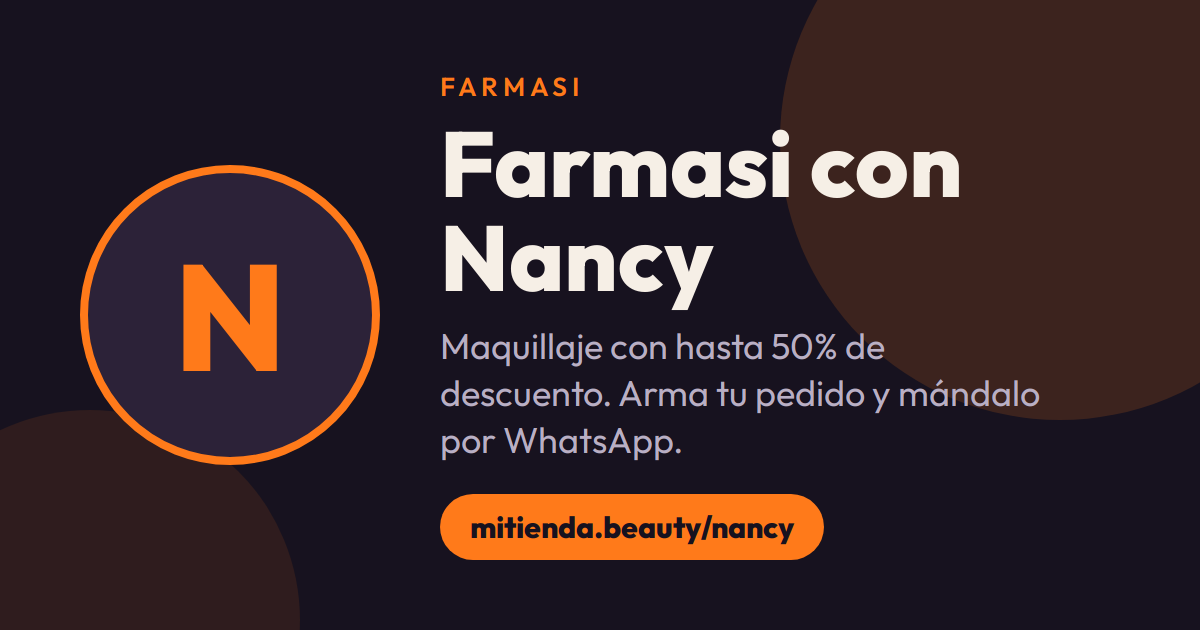
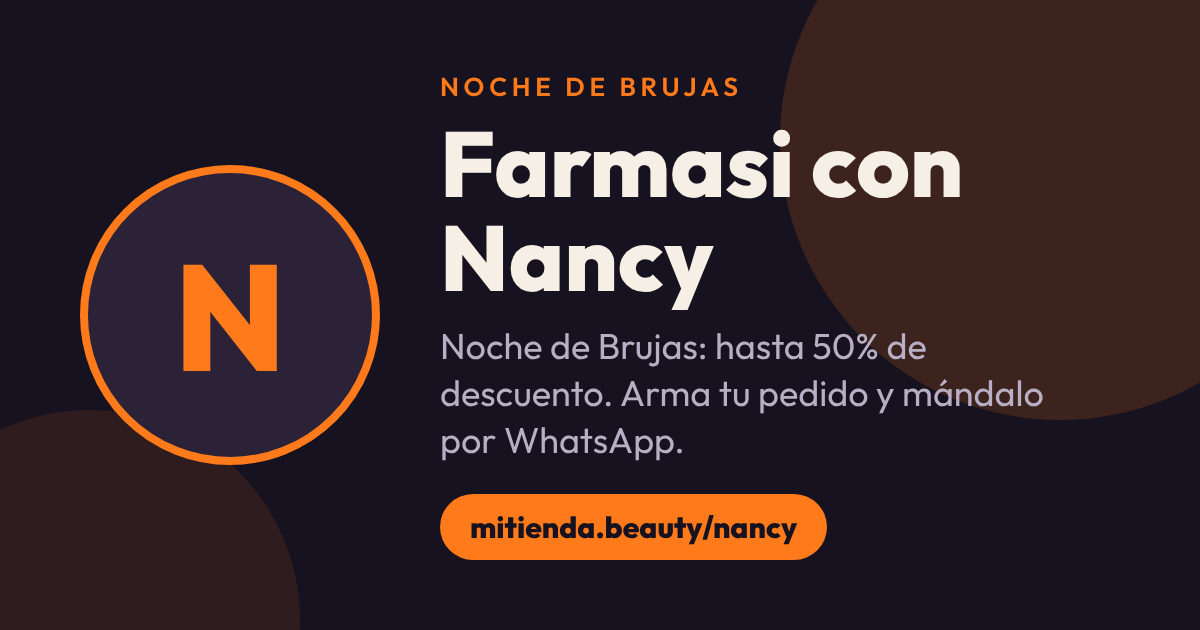
Vistas previas: título y descripción salen de la venta activa (se actualizan solos)
Claude-Session: https://claude.ai/code/session_01WesQxjD6cAK6tdYb2aBDD2

diff --git a/anaofelia/index.html b/anaofelia/index.html
@@ -10,15 +10,15 @@
 <title>Farmasi con Ana Ofelia</title>
 <meta name="description" content="Venta especial de maquillaje con Ana Ofelia. Elige tus productos y manda tu pedido por WhatsApp.">
 <meta property="og:title" content="Farmasi con Ana Ofelia">
-<meta property="og:description" content="Maquillaje con hasta 50% de descuento. Arma tu pedido y mándalo por WhatsApp.">
+<meta property="og:description" content="Noche de Brujas: hasta 50% de descuento. Arma tu pedido y mándalo por WhatsApp.">
 <meta property="og:type" content="website">
 <meta property="og:locale" content="es_MX">
 <meta property="og:url" content="https://mitienda.beauty/anaofelia/">
-<meta property="og:image" content="https://mitienda.beauty/og/anaofelia.png?v=0db46e0f">
+<meta property="og:image" content="https://mitienda.beauty/og/anaofelia.png?v=f62d6916">
 <meta property="og:image:width" content="1200">
 <meta property="og:image:height" content="630">
 <meta name="twitter:card" content="summary_large_image">
-<meta name="twitter:image" content="https://mitienda.beauty/og/anaofelia.png?v=0db46e0f">
+<meta name="twitter:image" content="https://mitienda.beauty/og/anaofelia.png?v=f62d6916">
 <link rel="preconnect" href="https://fonts.googleapis.com">
 <link rel="preconnect" href="https://fonts.gstatic.com" crossorigin>
 <link href="https://fonts.googleapis.com/css2?family=IBM+Plex+Mono:wght@400;500;700&family=Outfit:wght@300;400;500;600;700;800&display=swap" rel="stylesheet">

diff --git a/anagomez/index.html b/anagomez/index.html
@@ -10,15 +10,15 @@
 <title>Farmasi con Ana Gómez</title>
 <meta name="description" content="Venta especial de maquillaje con Ana Gómez. Elige tus productos y manda tu pedido por WhatsApp.">
 <meta property="og:title" content="Farmasi con Ana Gómez">
-<meta property="og:description" content="Maquillaje con hasta 50% de descuento. Arma tu pedido y mándalo por WhatsApp.">
+<meta property="og:description" content="Noche de Brujas: hasta 50% de descuento. Arma tu pedido y mándalo por WhatsApp.">
 <meta property="og:type" content="website">
 <meta property="og:locale" content="es_MX">
 <meta property="og:url" content="https://mitienda.beauty/anagomez/">
-<meta property="og:image" content="https://mitienda.beauty/og/anagomez.png?v=885e40aa">
+<meta property="og:image" content="https://mitienda.beauty/og/anagomez.png?v=ca89e49b">
 <meta property="og:image:width" content="1200">
 <meta property="og:image:height" content="630">
 <meta name="twitter:card" content="summary_large_image">
-<meta name="twitter:image" content="https://mitienda.beauty/og/anagomez.png?v=885e40aa">
+<meta name="twitter:image" content="https://mitienda.beauty/og/anagomez.png?v=ca89e49b">
 <link rel="preconnect" href="https://fonts.googleapis.com">
 <link rel="preconnect" href="https://fonts.gstatic.com" crossorigin>
 <link href="https://fonts.googleapis.com/css2?family=IBM+Plex+Mono:wght@400;500;700&family=Outfit:wght@300;400;500;600;700;800&display=swap" rel="stylesheet">

diff --git a/andrea/index.html b/andrea/index.html
@@ -10,15 +10,15 @@
 <title>Farmasi con Andrea</title>
 <meta name="description" content="Venta especial de maquillaje con Andrea. Elige tus productos y manda tu pedido por WhatsApp.">
 <meta property="og:title" content="Farmasi con Andrea">
-<meta property="og:description" content="Maquillaje con hasta 50% de descuento. Arma tu pedido y mándalo por WhatsApp.">
+<meta property="og:description" content="Noche de Brujas: hasta 50% de descuento. Arma tu pedido y mándalo por WhatsApp.">
 <meta property="og:type" content="website">
 <meta property="og:locale" content="es_MX">
 <meta property="og:url" content="https://mitienda.beauty/andrea/">
-<meta property="og:image" content="https://mitienda.beauty/og/andrea.png?v=e01e39df">
+<meta property="og:image" content="https://mitienda.beauty/og/andrea.png?v=c41a8d59">
 <meta property="og:image:width" content="1200">
 <meta property="og:image:height" content="630">
 <meta name="twitter:card" content="summary_large_image">
-<meta name="twitter:image" content="https://mitienda.beauty/og/andrea.png?v=e01e39df">
+<meta name="twitter:image" content="https://mitienda.beauty/og/andrea.png?v=c41a8d59">
 <link rel="preconnect" href="https://fonts.googleapis.com">
 <link rel="preconnect" href="https://fonts.gstatic.com" crossorigin>
 <link href="https://fonts.googleapis.com/css2?family=IBM+Plex+Mono:wght@400;500;700&family=Outfit:wght@300;400;500;600;700;800&display=swap" rel="stylesheet">

diff --git a/silvia/index.html b/silvia/index.html
@@ -10,15 +10,15 @@
 <title>Farmasi con Silvia</title>
 <meta name="description" content="Venta especial de maquillaje con Silvia. Elige tus productos y manda tu pedido por WhatsApp.">
 <meta property="og:title" content="Farmasi con Silvia">
-<meta property="og:description" content="Maquillaje con hasta 50% de descuento. Arma tu pedido y mándalo por WhatsApp.">
+<meta property="og:description" content="Noche de Brujas: hasta 50% de descuento. Arma tu pedido y mándalo por WhatsApp.">
 <meta property="og:type" content="website">
 <meta property="og:locale" content="es_MX">
 <meta property="og:url" content="https://mitienda.beauty/silvia/">
-<meta property="og:image" content="https://mitienda.beauty/og/silvia.png?v=891a5dd5">
+<meta property="og:image" content="https://mitienda.beauty/og/silvia.png?v=5c2524eb">
 <meta property="og:image:width" content="1200">
 <meta property="og:image:height" content="630">
 <meta name="twitter:card" content="summary_large_image">
-<meta name="twitter:image" content="https://mitienda.beauty/og/silvia.png?v=891a5dd5">
+<meta name="twitter:image" content="https://mitienda.beauty/og/silvia.png?v=5c2524eb">
 <link rel="preconnect" href="https://fonts.googleapis.com">
 <link rel="preconnect" href="https://fonts.gstatic.com" crossorigin>
 <link href="https://fonts.googleapis.com/css2?family=IBM+Plex+Mono:wght@400;500;700&family=Outfit:wght@300;400;500;600;700;800&display=swap" rel="stylesheet">

diff --git a/yazmin/index.html b/yazmin/index.html
@@ -10,15 +10,15 @@
 <title>Farmasi con Yazmin</title>
 <meta name="description" content="Venta especial de maquillaje con Yazmin. Elige tus productos y manda tu pedido por WhatsApp.">
 <meta property="og:title" content="Farmasi con Yazmin">
-<meta property="og:description" content="Maquillaje con hasta 50% de descuento. Arma tu pedido y mándalo por WhatsApp.">
+<meta property="og:description" content="Noche de Brujas: hasta 50% de descuento. Arma tu pedido y mándalo por WhatsApp.">
 <meta property="og:type" content="website">
 <meta property="og:locale" content="es_MX">
 <meta property="og:url" content="https://mitienda.beauty/yazmin/">
-<meta property="og:image" content="https://mitienda.beauty/og/yazmin.png?v=386fdfa8">
+<meta property="og:image" content="https://mitienda.beauty/og/yazmin.png?v=2248d71a">
 <meta property="og:image:width" content="1200">
 <meta property="og:image:height" content="630">
 <meta name="twitter:card" content="summary_large_image">
-<meta name="twitter:image" content="https://mitienda.beauty/og/yazmin.png?v=386fdfa8">
+<meta name="twitter:image" content="https://mitienda.beauty/og/yazmin.png?v=2248d71a">
 <link rel="preconnect" href="https://fonts.googleapis.com">
 <link rel="preconnect" href="https://fonts.gstatic.com" crossorigin>
 <link href="https://fonts.googleapis.com/css2?family=IBM+Plex+Mono:wght@400;500;700&family=Outfit:wght@300;400;500;600;700;800&display=swap" rel="stylesheet">

diff --git a/danny/index.html b/danny/index.html
@@ -10,15 +10,15 @@
 <title>Farmasi con Danny</title>
 <meta name="description" content="Venta especial de maquillaje con Danny. Elige tus productos y manda tu pedido por WhatsApp.">
 <meta property="og:title" content="Farmasi con Danny">
-<meta property="og:description" content="Maquillaje con hasta 50% de descuento. Arma tu pedido y mándalo por WhatsApp.">
+<meta property="og:description" content="Noche de Brujas: hasta 50% de descuento. Arma tu pedido y mándalo por WhatsApp.">
 <meta property="og:type" content="website">
 <meta property="og:locale" content="es_MX">
 <meta property="og:url" content="https://mitienda.beauty/danny/">
-<meta property="og:image" content="https://mitienda.beauty/og/danny.png?v=3cb8a78c">
+<meta property="og:image" content="https://mitienda.beauty/og/danny.png?v=01a76dcc">
 <meta property="og:image:width" content="1200">
 <meta property="og:image:height" content="630">
 <meta name="twitter:card" content="summary_large_image">
-<meta name="twitter:image" content="https://mitienda.beauty/og/danny.png?v=3cb8a78c">
+<meta name="twitter:image" content="https://mitienda.beauty/og/danny.png?v=01a76dcc">
 <link rel="preconnect" href="https://fonts.googleapis.com">
 <link rel="preconnect" href="https://fonts.gstatic.com" crossorigin>
 <link href="https://fonts.googleapis.com/css2?family=IBM+Plex+Mono:wght@400;500;700&family=Outfit:wght@300;400;500;600;700;800&display=swap" rel="stylesheet">

diff --git a/laura/index.html b/laura/index.html
@@ -10,15 +10,15 @@
 <title>Farmasi con Laura</title>
 <meta name="description" content="Venta especial de maquillaje con Laura. Elige tus productos y manda tu pedido por WhatsApp.">
 <meta property="og:title" content="Farmasi con Laura">
-<meta property="og:description" content="Maquillaje con hasta 50% de descuento. Arma tu pedido y mándalo por WhatsApp.">
+<meta property="og:description" content="Noche de Brujas: hasta 50% de descuento. Arma tu pedido y mándalo por WhatsApp.">
 <meta property="og:type" content="website">
 <meta property="og:locale" content="es_MX">
 <meta property="og:url" content="https://mitienda.beauty/laura/">
-<meta property="og:image" content="https://mitienda.beauty/og/laura.png?v=ef0a6da4">
+<meta property="og:image" content="https://mitienda.beauty/og/laura.png?v=c6ddb937">
 <meta property="og:image:width" content="1200">
 <meta property="og:image:height" content="630">
 <meta name="twitter:card" content="summary_large_image">
-<meta name="twitter:image" content="https://mitienda.beauty/og/laura.png?v=ef0a6da4">
+<meta name="twitter:image" content="https://mitienda.beauty/og/laura.png?v=c6ddb937">
 <link rel="preconnect" href="https://fonts.googleapis.com">
 <link rel="preconnect" href="https://fonts.gstatic.com" crossorigin>
 <link href="https://fonts.googleapis.com/css2?family=IBM+Plex+Mono:wght@400;500;700&family=Outfit:wght@300;400;500;600;700;800&display=swap" rel="stylesheet">

diff --git a/nancy/index.html b/nancy/index.html
@@ -10,15 +10,15 @@
 <title>Farmasi con Nancy</title>
 <meta name="description" content="Venta especial de maquillaje con Nancy. Elige tus productos y manda tu pedido por WhatsApp.">
 <meta property="og:title" content="Farmasi con Nancy">
-<meta property="og:description" content="Maquillaje con hasta 50% de descuento. Arma tu pedido y mándalo por WhatsApp.">
+<meta property="og:description" content="Noche de Brujas: hasta 50% de descuento. Arma tu pedido y mándalo por WhatsApp.">
 <meta property="og:type" content="website">
 <meta property="og:locale" content="es_MX">
 <meta property="og:url" content="https://mitienda.beauty/nancy/">
-<meta property="og:image" content="https://mitienda.beauty/og/nancy.png?v=343fa560">
+<meta property="og:image" content="https://mitienda.beauty/og/nancy.png?v=22e93839">
 <meta property="og:image:width" content="1200">
 <meta property="og:image:height" content="630">
 <meta name="twitter:card" content="summary_large_image">
-<meta name="twitter:image" content="https://mitienda.beauty/og/nancy.png?v=343fa560">
+<meta name="twitter:image" content="https://mitienda.beauty/og/nancy.png?v=22e93839">
 <link rel="preconnect" href="https://fonts.googleapis.com">
 <link rel="preconnect" href="https://fonts.gstatic.com" crossorigin>
 <link href="https://fonts.googleapis.com/css2?family=IBM+Plex+Mono:wght@400;500;700&family=Outfit:wght@300;400;500;600;700;800&display=swap" rel="stylesheet">

diff --git a/sebas/index.html b/sebas/index.html
@@ -10,15 +10,15 @@
 <title>Farmasi con Sebas</title>
 <meta name="description" content="Venta especial de maquillaje con Sebas. Elige tus productos y manda tu pedido por WhatsApp.">
 <meta property="og:title" content="Farmasi con Sebas">
-<meta property="og:description" content="Maquillaje con hasta 50% de descuento. Arma tu pedido y mándalo por WhatsApp.">
+<meta property="og:description" content="Noche de Brujas: hasta 50% de descuento. Arma tu pedido y mándalo por WhatsApp.">
 <meta property="og:type" content="website">
 <meta property="og:locale" content="es_MX">
 <meta property="og:url" content="https://mitienda.beauty/sebas/">
-<meta property="og:image" content="https://mitienda.beauty/og/sebas.png?v=557bf7f9">
+<meta property="og:image" content="https://mitienda.beauty/og/sebas.png?v=4ed442bf">
 <meta property="og:image:width" content="1200">
 <meta property="og:image:height" content="630">
 <meta name="twitter:card" content="summary_large_image">
-<meta name="twitter:image" content="https://mitienda.beauty/og/sebas.png?v=557bf7f9">
+<meta name="twitter:image" content="https://mitienda.beauty/og/sebas.png?v=4ed442bf">
 <link rel="preconnect" href="https://fonts.googleapis.com">
 <link rel="preconnect" href="https://fonts.gstatic.com" crossorigin>
 <link href="https://fonts.googleapis.com/css2?family=IBM+Plex+Mono:wght@400;500;700&family=Outfit:wght@300;400;500;600;700;800&display=swap" rel="stylesheet">

diff --git a/sel/index.html b/sel/index.html
@@ -10,15 +10,15 @@
 <title>Farmasi con Selene</title>
 <meta name="description" content="Venta especial de maquillaje con Selene. Elige tus productos y manda tu pedido por WhatsApp.">
 <meta property="og:title" content="Farmasi con Selene">
-<meta property="og:description" content="Maquillaje con hasta 50% de descuento. Arma tu pedido y mándalo por WhatsApp.">
+<meta property="og:description" content="Noche de Brujas: hasta 50% de descuento. Arma tu pedido y mándalo por WhatsApp.">
 <meta property="og:type" content="website">
 <meta property="og:locale" content="es_MX">
 <meta property="og:url" content="https://mitienda.beauty/sel/">
-<meta property="og:image" content="https://mitienda.beauty/og/sel.png?v=170323e4">
+<meta property="og:image" content="https://mitienda.beauty/og/sel.png?v=46844a81">
 <meta property="og:image:width" content="1200">
 <meta property="og:image:height" content="630">
 <meta name="twitter:card" content="summary_large_image">
-<meta name="twitter:image" content="https://mitienda.beauty/og/sel.png?v=170323e4">
+<meta name="twitter:image" content="https://mitienda.beauty/og/sel.png?v=46844a81">
 <link rel="preconnect" href="https://fonts.googleapis.com">
 <link rel="preconnect" href="https://fonts.gstatic.com" crossorigin>
 <link href="https://fonts.googleapis.com/css2?family=IBM+Plex+Mono:wght@400;500;700&family=Outfit:wght@300;400;500;600;700;800&display=swap" rel="stylesheet">

diff --git a/andi/index.html b/andi/index.html
@@ -10,15 +10,15 @@
 <title>Farmasi con Andi</title>
 <meta name="description" content="Venta especial de maquillaje con Andi. Elige tus productos y manda tu pedido por WhatsApp.">
 <meta property="og:title" content="Farmasi con Andi">
-<meta property="og:description" content="Maquillaje con hasta 50% de descuento. Arma tu pedido y mándalo por WhatsApp.">
+<meta property="og:description" content="Noche de Brujas: hasta 50% de descuento. Arma tu pedido y mándalo por WhatsApp.">
 <meta property="og:type" content="website">
 <meta property="og:locale" content="es_MX">
 <meta property="og:url" content="https://mitienda.beauty/andi/">
-<meta property="og:image" content="https://mitienda.beauty/og/andi.png?v=9b5414c6">
+<meta property="og:image" content="https://mitienda.beauty/og/andi.png?v=e5127601">
 <meta property="og:image:width" content="1200">
 <meta property="og:image:height" content="630">
 <meta name="twitter:card" content="summary_large_image">
-<meta name="twitter:image" content="https://mitienda.beauty/og/andi.png?v=9b5414c6">
+<meta name="twitter:image" content="https://mitienda.beauty/og/andi.png?v=e5127601">
 <link rel="preconnect" href="https://fonts.googleapis.com">
 <link rel="preconnect" href="https://fonts.gstatic.com" crossorigin>
 <link href="https://fonts.googleapis.com/css2?family=IBM+Plex+Mono:wght@400;500;700&family=Outfit:wght@300;400;500;600;700;800&display=swap" rel="stylesheet">

diff --git a/elda/index.html b/elda/index.html
@@ -10,15 +10,15 @@
 <title>Farmasi con Elda</title>
 <meta name="description" content="Venta especial de maquillaje con Elda. Elige tus productos y manda tu pedido por WhatsApp.">
 <meta property="og:title" content="Farmasi con Elda">
-<meta property="og:description" content="Maquillaje con hasta 50% de descuento. Arma tu pedido y mándalo por WhatsApp.">
+<meta property="og:description" content="Noche de Brujas: hasta 50% de descuento. Arma tu pedido y mándalo por WhatsApp.">
 <meta property="og:type" content="website">
 <meta property="og:locale" content="es_MX">
 <meta property="og:url" content="https://mitienda.beauty/elda/">
-<meta property="og:image" content="https://mitienda.beauty/og/elda.png?v=8b7dafb7">
+<meta property="og:image" content="https://mitienda.beauty/og/elda.png?v=ddfaf283">
 <meta property="og:image:width" content="1200">
 <meta property="og:image:height" content="630">
 <meta name="twitter:card" content="summary_large_image">
-<meta name="twitter:image" content="https://mitienda.beauty/og/elda.png?v=8b7dafb7">
+<meta name="twitter:image" content="https://mitienda.beauty/og/elda.png?v=ddfaf283">
 <link rel="preconnect" href="https://fonts.googleapis.com">
 <link rel="preconnect" href="https://fonts.gstatic.com" crossorigin>
 <link href="https://fonts.googleapis.com/css2?family=IBM+Plex+Mono:wght@400;500;700&family=Outfit:wght@300;400;500;600;700;800&display=swap" rel="stylesheet">
